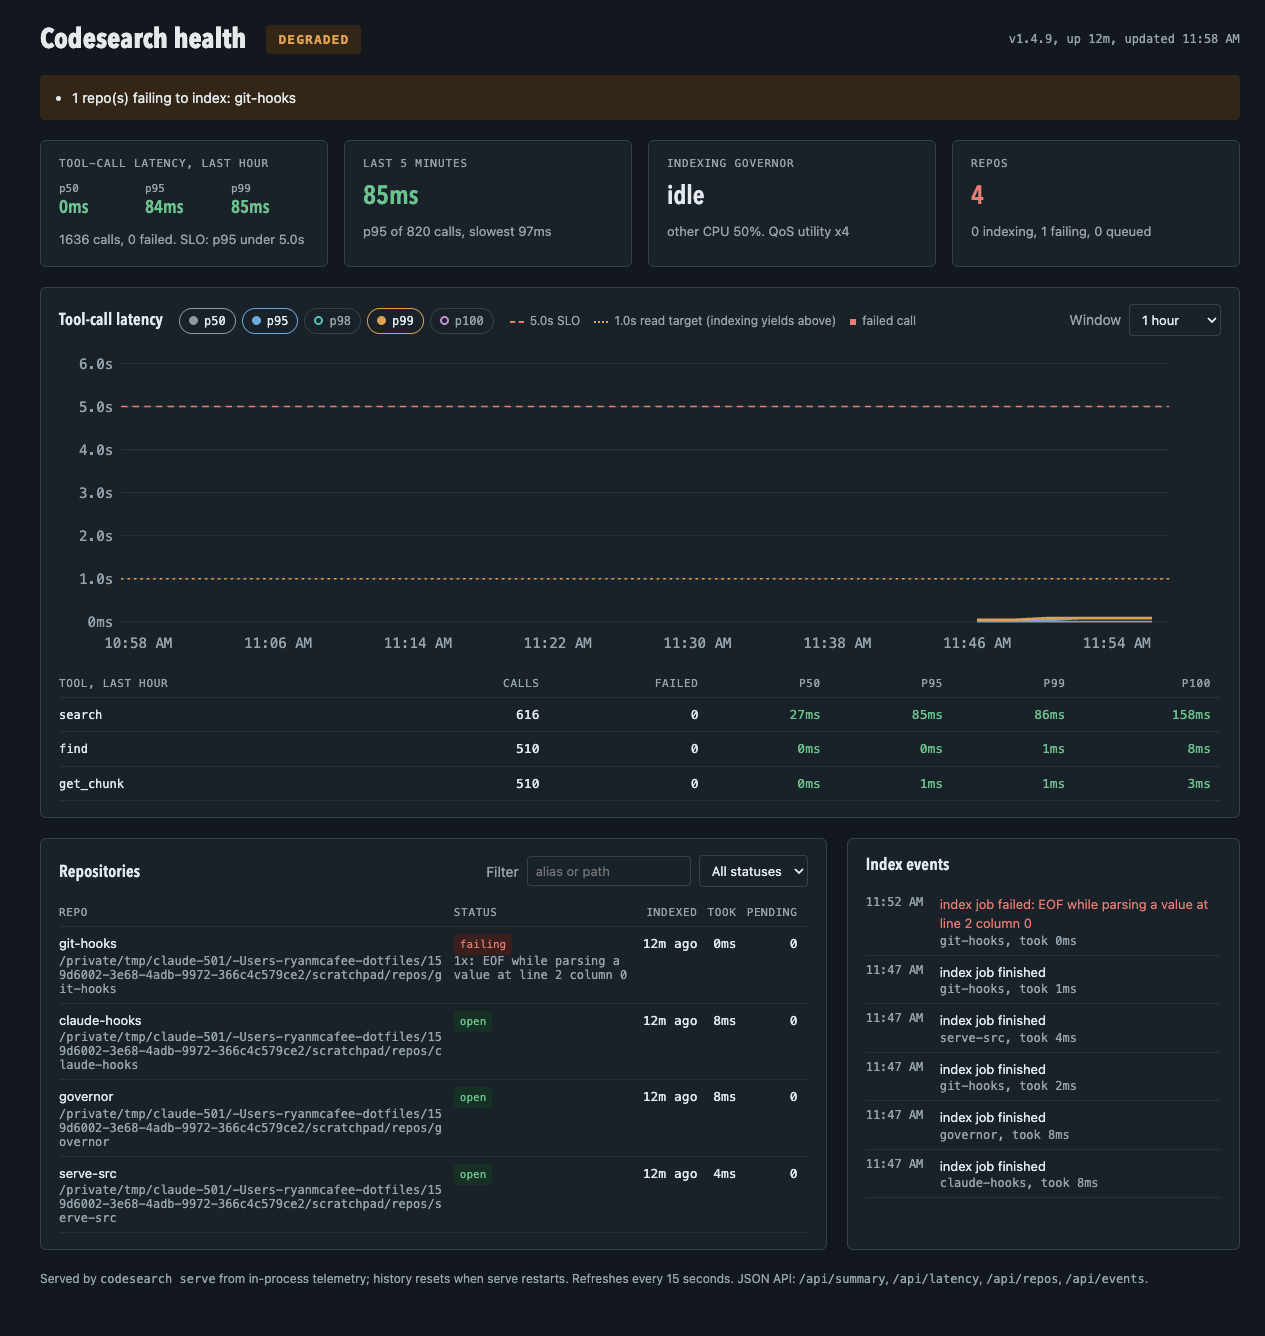
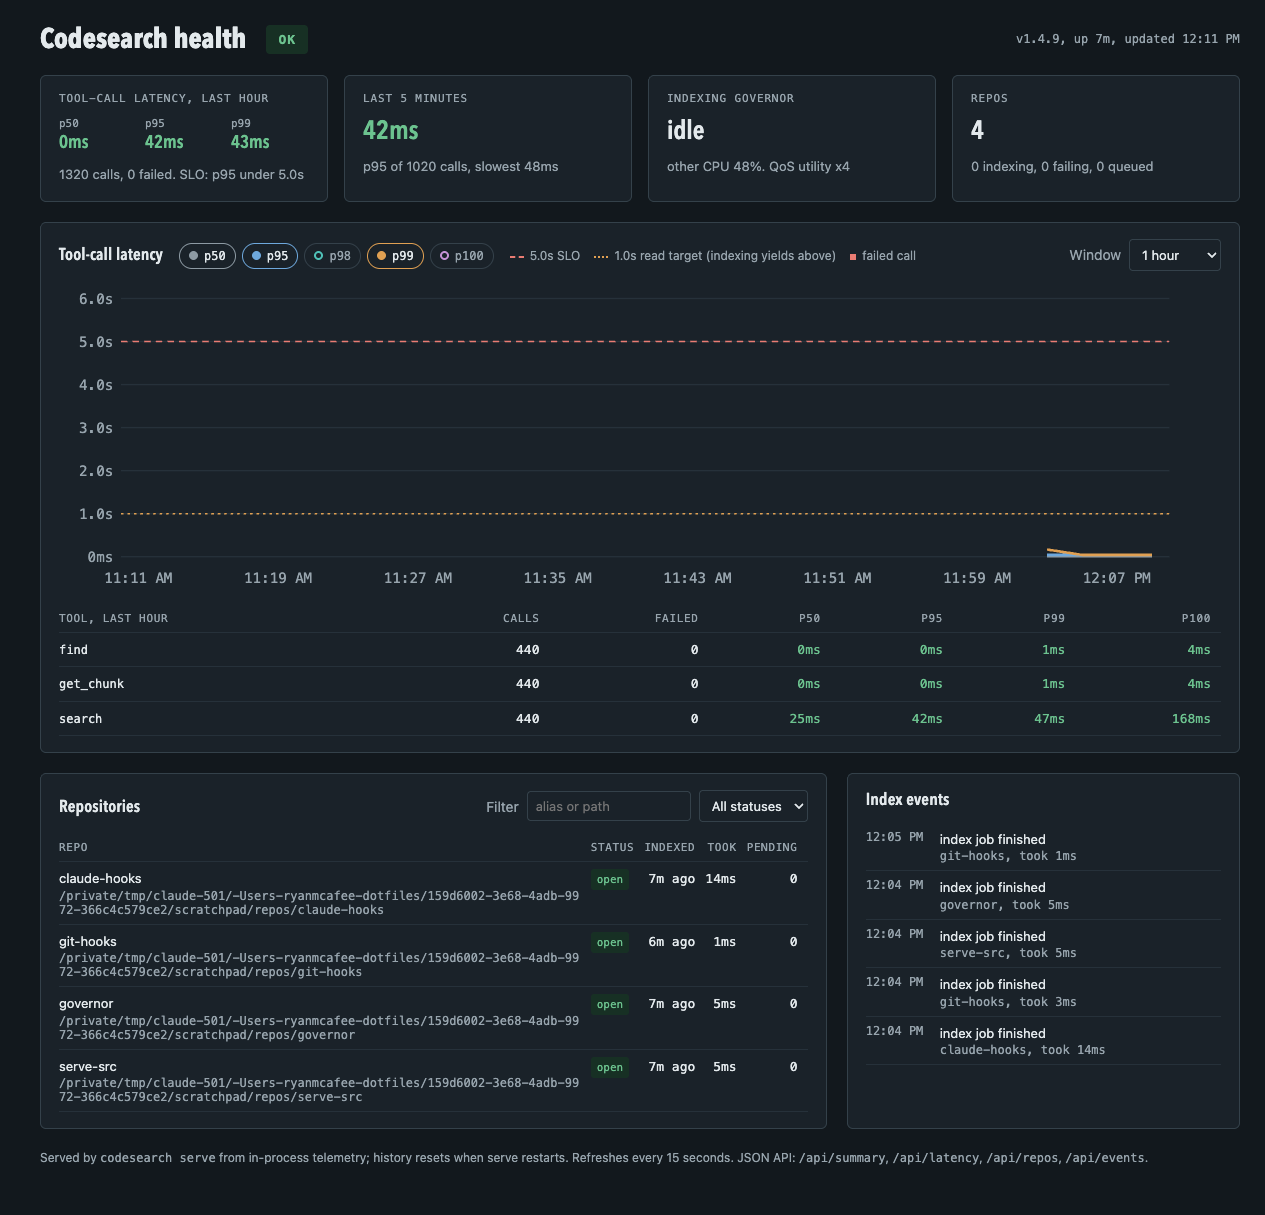
docs: recapture dashboard screenshots with a healthy serve
The first captures showed a deliberately broken repo, so the README
example read as degraded.

diff --git a/README.md b/README.md
@@ -369,7 +369,7 @@ This starts a background HTTP server with:
 
 <picture>
   <source media="(prefers-color-scheme: dark)" srcset="docs/images/health-dashboard-dark.png">
-  <img alt="Health dashboard: degraded status with a failing repo, tool-call latency chart against the 5s SLO and 1s read target, per-tool percentiles, repositories and index events" src="docs/images/health-dashboard.png">
+  <img alt="Health dashboard: ok status, tool-call latency chart against the 5s SLO and 1s read target, per-tool percentiles, repositories and index events" src="docs/images/health-dashboard.png">
 </picture>
 
 Status is `degraded` when tool-call p95 over the last hour exceeds `CODESEARCH_SLO_MS` (default 5000), any tool call failed in the last hour, or a repo's last index job failed. A repo is `failing` after a failed index job until its next successful one; jobs cancelled because the repo was removed or evicted do not count. Latency history and events live in memory (24h of tool calls, the last 500 events) and reset when serve restarts.
